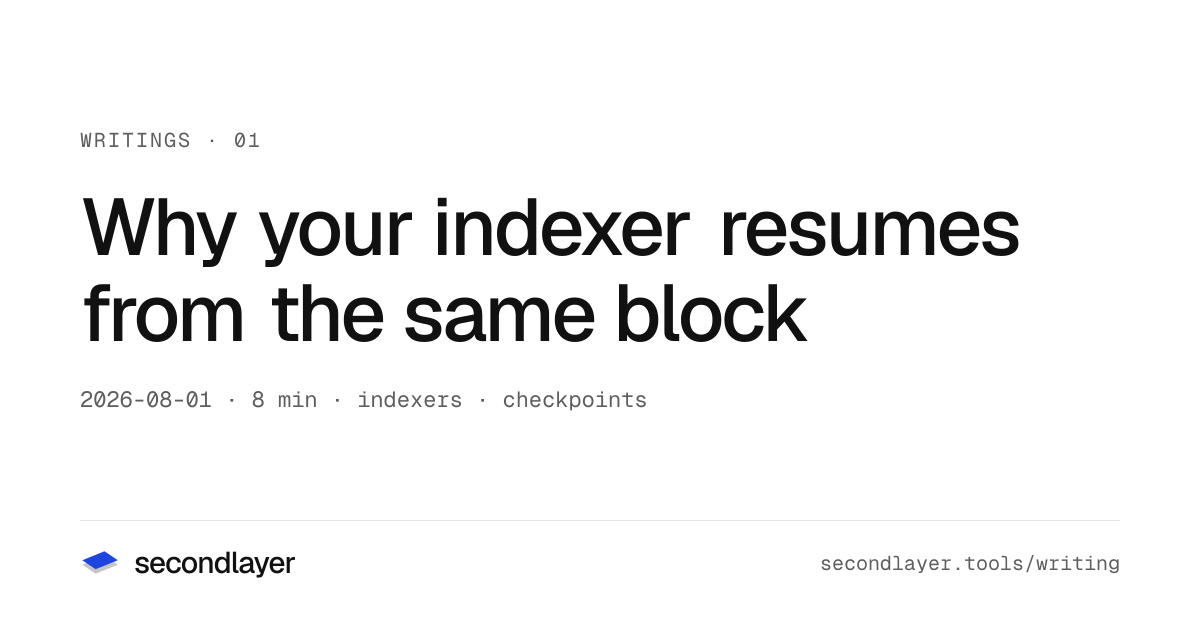
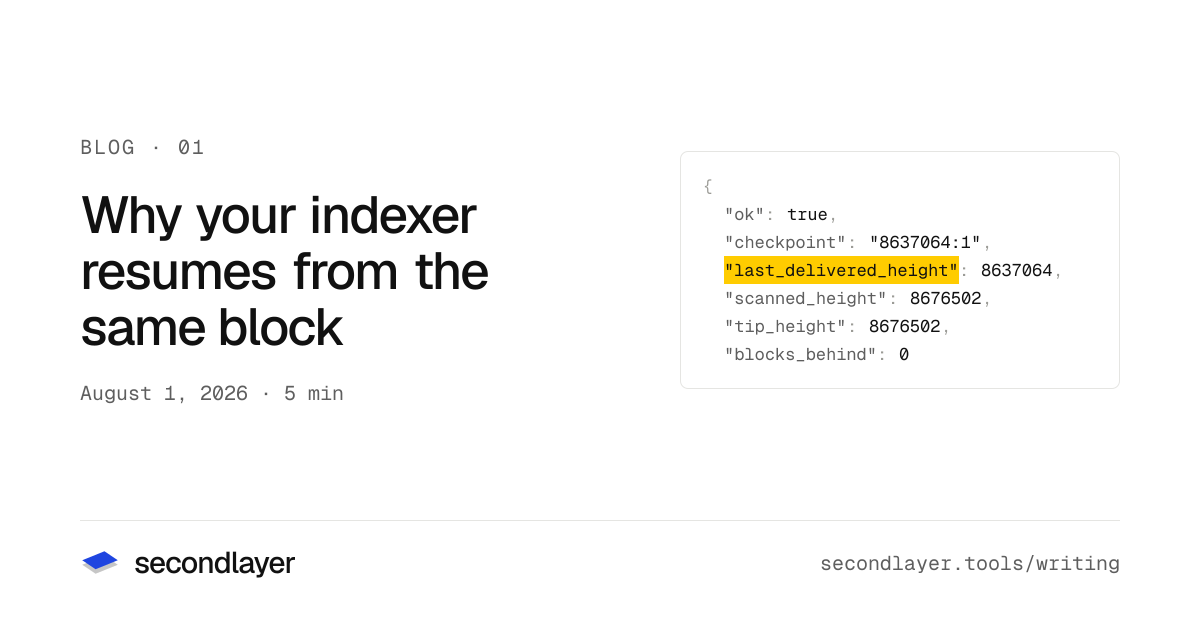
feat(web): blog share cards show the post's own code

diff --git a/apps/web/scripts/generate-og.tsx b/apps/web/scripts/generate-og.tsx
@@ -13,7 +13,8 @@ import { join } from "node:path";
 import { ImageResponse } from "next/og";
 import { STACKS_SYMBOL_PATH } from "../src/app/robinhood/stacks-symbol";
 import { type Chain, MARKS } from "../src/components/site/chain-marks";
-import { POSTS } from "../src/lib/writing";
+import { parseAnnotations } from "../src/lib/code/annotations";
+import { POSTS, getPublishedPosts, longDate } from "../src/lib/writing";
 
 const FONT_DIR = join(process.cwd(), "src/assets/og-fonts");
 const OUT_DIR = join(process.cwd(), "public/og");
@@ -1385,19 +1386,166 @@ const fonts = [
 	},
 ];
 
-// ── writings cards ───────────────────────────────────────────────────────────
-// Same footer strip, but the headline is a full post title (satori wraps it),
-// with a mono meta line underneath instead of a product artifact.
+// ── blog cards ───────────────────────────────────────────────────────────────
+// A post card is the post's title on the left and its own code on the right:
+// up to seven lines of the post's first real code block, in the site's syntax
+// ladder, with the token the post marks on yellow. Nothing to set per post.
 
-function WritingFrame({
+const FAINT = "#9b9b96";
+const POSTS_DIR = join(process.cwd(), "src/app/(www)/writing/(post)");
+const EXCERPT_LINES = 7;
+const EXCERPT_CHARS = 38;
+
+type Excerpt = { lines: string[]; mark: { line: number; re: RegExp } | null };
+
+/**
+ * The card's art: the first fence of 4+ lines. A transcript keeps its command
+ * and its last lines (the result); code keeps a window around its first
+ * `!mark` or `!callout`, whose token is the one marked.
+ */
+async function heroExcerpt(slug: string): Promise<Excerpt | null> {
+	const mdx = await readFile(join(POSTS_DIR, slug, "page.mdx"), "utf8");
+	for (const [, lang = "", body = ""] of mdx.matchAll(
+		/```(\w*)[^\n]*\n([\s\S]*?)```/g,
+	)) {
+		const { lines, annotations } = parseAnnotations(body.trimEnd(), lang);
+		if (lines.length < 4) continue;
+		let picked: string[];
+		let mark: Excerpt["mark"] = null;
+		if (lang === "text") {
+			picked = [lines[0] ?? "", ...lines.slice(1 - EXCERPT_LINES)];
+			mark = { line: picked.length - 1, re: /(?<=✓ ).*?\./ };
+		} else {
+			const note = annotations.find(
+				(a) => (a.name === "mark" || a.name === "callout") && a.regex,
+			);
+			const at = note?.from ?? 0;
+			const start = Math.max(0, Math.min(at - 3, lines.length - EXCERPT_LINES));
+			picked = lines.slice(start, start + EXCERPT_LINES);
+			if (note?.regex) mark = { line: at - start, re: note.regex };
+		}
+		const indent = Math.min(
+			...picked
+				.filter((l) => l.trim())
+				.map((l) => /^ */.exec(l)?.[0].length ?? 0),
+		);
+		return {
+			lines: picked.map((l) => {
+				// Transcripts pad columns with runs of spaces; two keep the shape.
+				const line = l.slice(indent).replace(/(\S) {3,}/g, "$1  ");
+				if (line.length <= EXCERPT_CHARS) return line;
+				const cut = line.lastIndexOf(" ", EXCERPT_CHARS - 1);
+				return `${line.slice(0, cut > EXCERPT_CHARS / 2 ? cut : EXCERPT_CHARS - 1)}…`;
+			}),
+			mark,
+		};
+	}
+	return null;
+}
+
+/** ✓ as a drawn check: Geist Mono has no glyph for it, and satori would
+    fetch a fallback font over the network. One character wide. */
+function Check() {
+	return (
+		<svg
+			width={10.2}
+			height={28}
+			viewBox="0 0 10.2 28"
+			role="img"
+			aria-label="passed"
+		>
+			<path
+				d="M1 15.5 L4 18.5 L9.2 11"
+				fill="none"
+				stroke={OK}
+				strokeWidth={1.6}
+				strokeLinecap="round"
+				strokeLinejoin="round"
+			/>
+		</svg>
+	);
+}
+
+/** One line in the syntax ladder: keys sub, punctuation faint, ✓ green. */
+function CodeTokens({ text }: { text: string }) {
+	const parts = text.match(
+		/("(?:[^"\\]|\\.)*"(?=\s*:)|[A-Za-z_$][\w$]*(?=\s*:)|"(?:[^"\\]|\\.)*"|[{}[\](),:;=]|✓|^\$|\s+|[^\s{}[\](),:;="✓]+)/g,
+	);
+	return (
+		<>
+			{(parts ?? []).map((t, i) => {
+				const key =
+					/^"?[\w$]+"?$/.test(t) &&
+					text
+						.slice(text.indexOf(t) + t.length)
+						.trimStart()
+						.startsWith(":");
+				// biome-ignore lint/suspicious/noArrayIndexKey: tokens of one fixed line
+				if (t === "✓") return <Check key={i} />;
+				const color =
+					/^[{}[\](),:;=]$/.test(t) || t === "$" ? FAINT : key ? SUB : INK;
+				return (
+					// biome-ignore lint/suspicious/noArrayIndexKey: tokens of one fixed line
+					<span key={i} style={{ color }}>
+						{nb(t)}
+					</span>
+				);
+			})}
+		</>
+	);
+}
+
+function CodeExcerpt({ excerpt }: { excerpt: Excerpt }) {
+	return (
+		<div
+			style={{
+				display: "flex",
+				flexDirection: "column",
+				width: 440,
+				border: `1px solid ${LINE}`,
+				borderRadius: 8,
+				padding: "20px 22px",
+				fontFamily: "Geist Mono",
+				fontSize: 17,
+				lineHeight: "28px",
+			}}
+		>
+			{excerpt.lines.map((line, i) => {
+				const hit =
+					excerpt.mark?.line === i ? excerpt.mark.re.exec(line) : null;
+				return (
+					// biome-ignore lint/suspicious/noArrayIndexKey: lines of one fixed excerpt
+					<div key={i} style={{ display: "flex", minHeight: 28 }}>
+						{hit ? (
+							<>
+								<CodeTokens text={line.slice(0, hit.index)} />
+								<span style={{ background: YELLOW, color: INK }}>
+									{nb(hit[0])}
+								</span>
+								<CodeTokens text={line.slice(hit.index + hit[0].length)} />
+							</>
+						) : (
+							<CodeTokens text={line} />
+						)}
+					</div>
+				);
+			})}
+		</div>
+	);
+}
+
+function PostFrame({
 	eyebrow,
 	title,
 	meta,
+	excerpt,
 }: {
 	eyebrow: string;
 	title: string;
 	meta: string;
+	excerpt: Excerpt | null;
 }) {
+	const size = title.length > 40 ? 52 : 60;
 	return (
 		<div
 			style={{
@@ -1405,7 +1553,6 @@ function WritingFrame({
 				width: "100%",
 				height: "100%",
 				display: "flex",
-				flexDirection: "column",
 				background: PAPER,
 				padding: "0 80px",
 				fontFamily: "Geist",
@@ -1413,11 +1560,12 @@ function WritingFrame({
 		>
 			<div
 				style={{
+					width: excerpt ? 540 : 1000,
 					height: 540,
 					display: "flex",
 					flexDirection: "column",
 					justifyContent: "center",
-					gap: 30,
+					gap: 26,
 				}}
 			>
 				<T size={20} color={SUB} style={{ letterSpacing: 2 }}>
@@ -1425,22 +1573,72 @@ function WritingFrame({
 				</T>
 				<span
 					style={{
-						fontFamily: "Geist",
 						fontWeight: 500,
-						fontSize: title.length > 44 ? 66 : 80,
+						fontSize: size,
 						color: INK,
 						lineHeight: 1.08,
-						letterSpacing: -2.8,
-						maxWidth: 1000,
+						letterSpacing: -size * 0.035,
 					}}
 				>
 					{title}
 				</span>
-				<T size={22} color={SUB}>
+				<T size={20} color={SUB}>
 					{meta}
 				</T>
 			</div>
+			{excerpt ? (
+				<div
+					style={{
+						position: "absolute",
+						top: 0,
+						right: 80,
+						height: 540,
+						display: "flex",
+						alignItems: "center",
+					}}
+				>
+					<CodeExcerpt excerpt={excerpt} />
+				</div>
+			) : null}
 			<Footer path={`${SITE}/writing`} />
+		</div>
+	);
+}
+
+/** The index card's art: the latest published posts, as the index lists them. */
+function ArtBlog() {
+	const latest = getPublishedPosts()
+		.sort((a, b) => b.number - a.number)
+		.slice(0, 3);
+	return (
+		<div style={{ display: "flex", flexDirection: "column", width: 440 }}>
+			{latest.map((post) => (
+				<div
+					key={post.slug}
+					style={{
+						display: "flex",
+						gap: 18,
+						padding: "18px 0",
+						borderTop: `1px solid ${LINE}`,
+					}}
+				>
+					<T size={16} color={SUB}>
+						{String(post.number).padStart(2, "0")}
+					</T>
+					<span
+						style={{
+							fontFamily: "Geist",
+							fontWeight: 500,
+							fontSize: 24,
+							lineHeight: 1.2,
+							letterSpacing: -0.6,
+							color: INK,
+						}}
+					>
+						{post.title}
+					</span>
+				</div>
+			))}
 		</div>
 	);
 }
@@ -1449,24 +1647,31 @@ const WRITING_CARDS: { file: string; frame: React.ReactElement }[] = [
 	{
 		file: "writing.png",
 		frame: (
-			<WritingFrame
-				eyebrow="WRITINGS"
-				title="Mechanism, explained."
-				meta="long-form technical guides · secondlayer.tools/writing"
+			<Frame
+				file="writing.png"
+				eyebrow="BLOG"
+				line1="Notes from"
+				line2="the index."
+				size={76}
+				path={`${SITE}/writing`}
+				artifact={<ArtBlog />}
 			/>
 		),
 	},
 	// All posts, drafts included — flipping a draft live shouldn't need a re-run.
-	...POSTS.map((post) => ({
-		file: `writing-${post.slug}.png`,
-		frame: (
-			<WritingFrame
-				eyebrow={`WRITINGS · ${String(post.number).padStart(2, "0")}`}
-				title={post.title}
-				meta={`${post.date} · ${post.readingTime} · ${post.tags.join(" · ")}`}
-			/>
-		),
-	})),
+	...(await Promise.all(
+		POSTS.map(async (post) => ({
+			file: `writing-${post.slug}.png`,
+			frame: (
+				<PostFrame
+					eyebrow={`BLOG · ${String(post.number).padStart(2, "0")}`}
+					title={post.title}
+					meta={`${longDate(post.date)} · ${post.readingTime}`}
+					excerpt={await heroExcerpt(post.slug)}
+				/>
+			),
+		})),
+	)),
 ];
 
 for (const spec of CARDS) {
